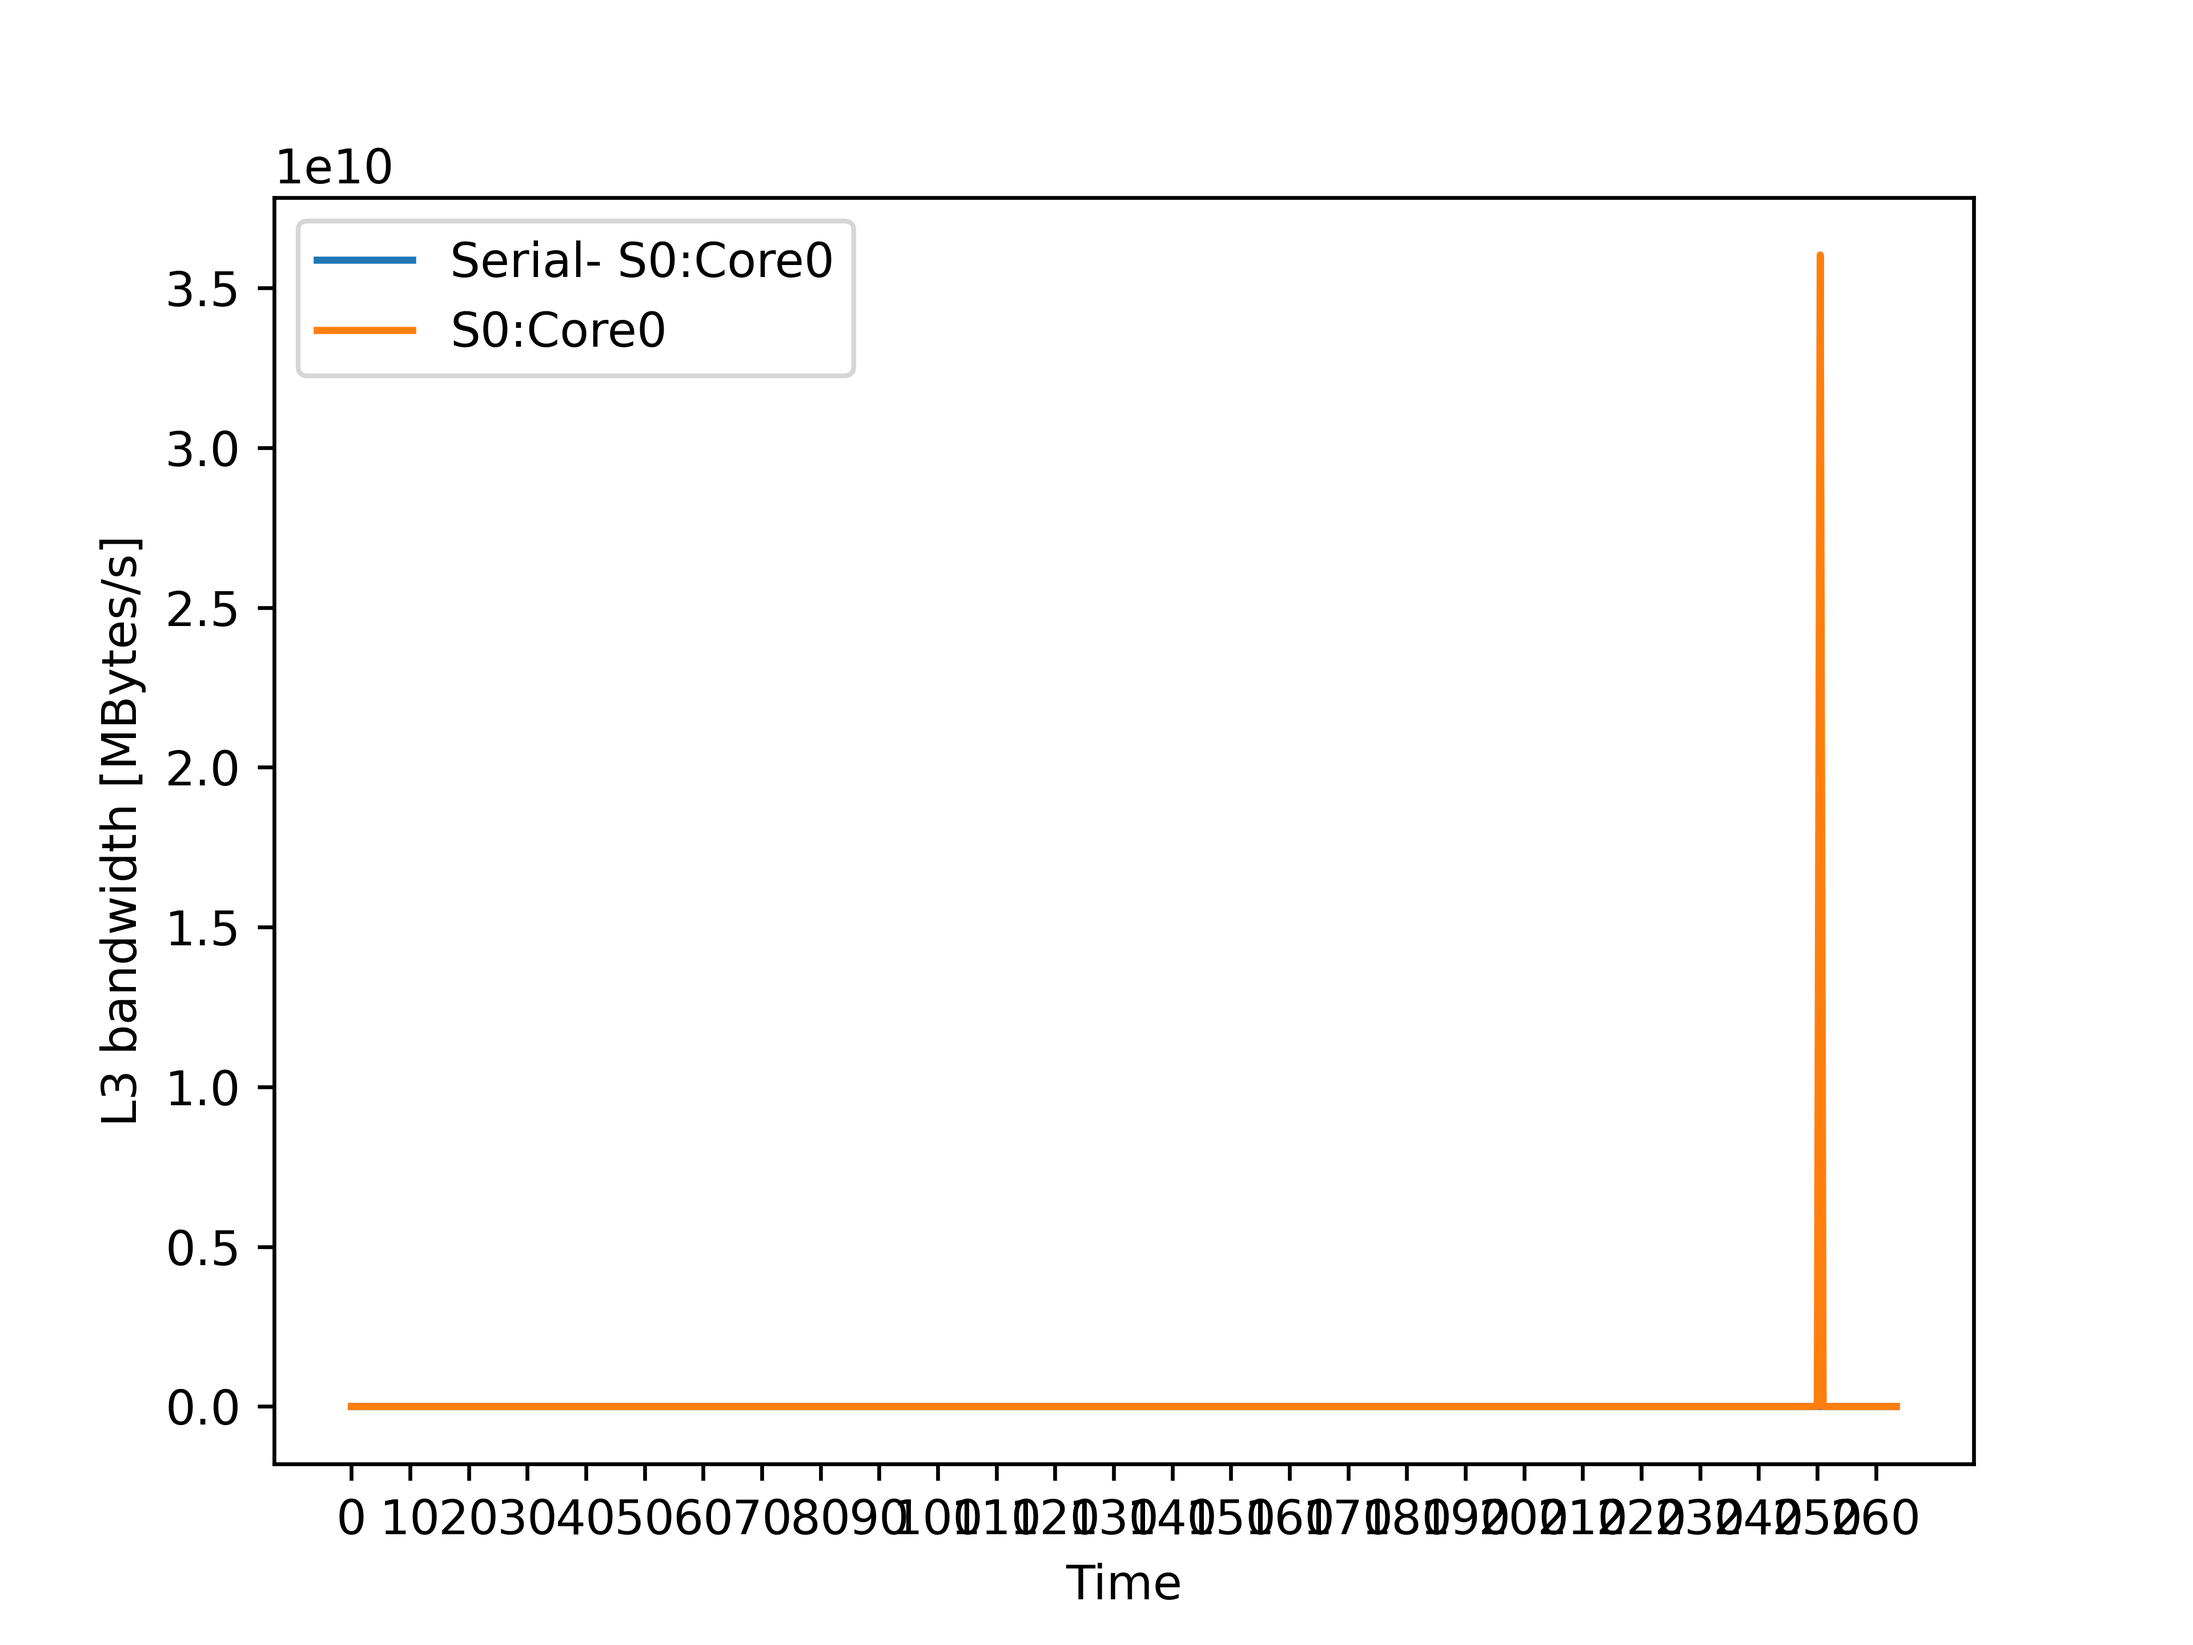
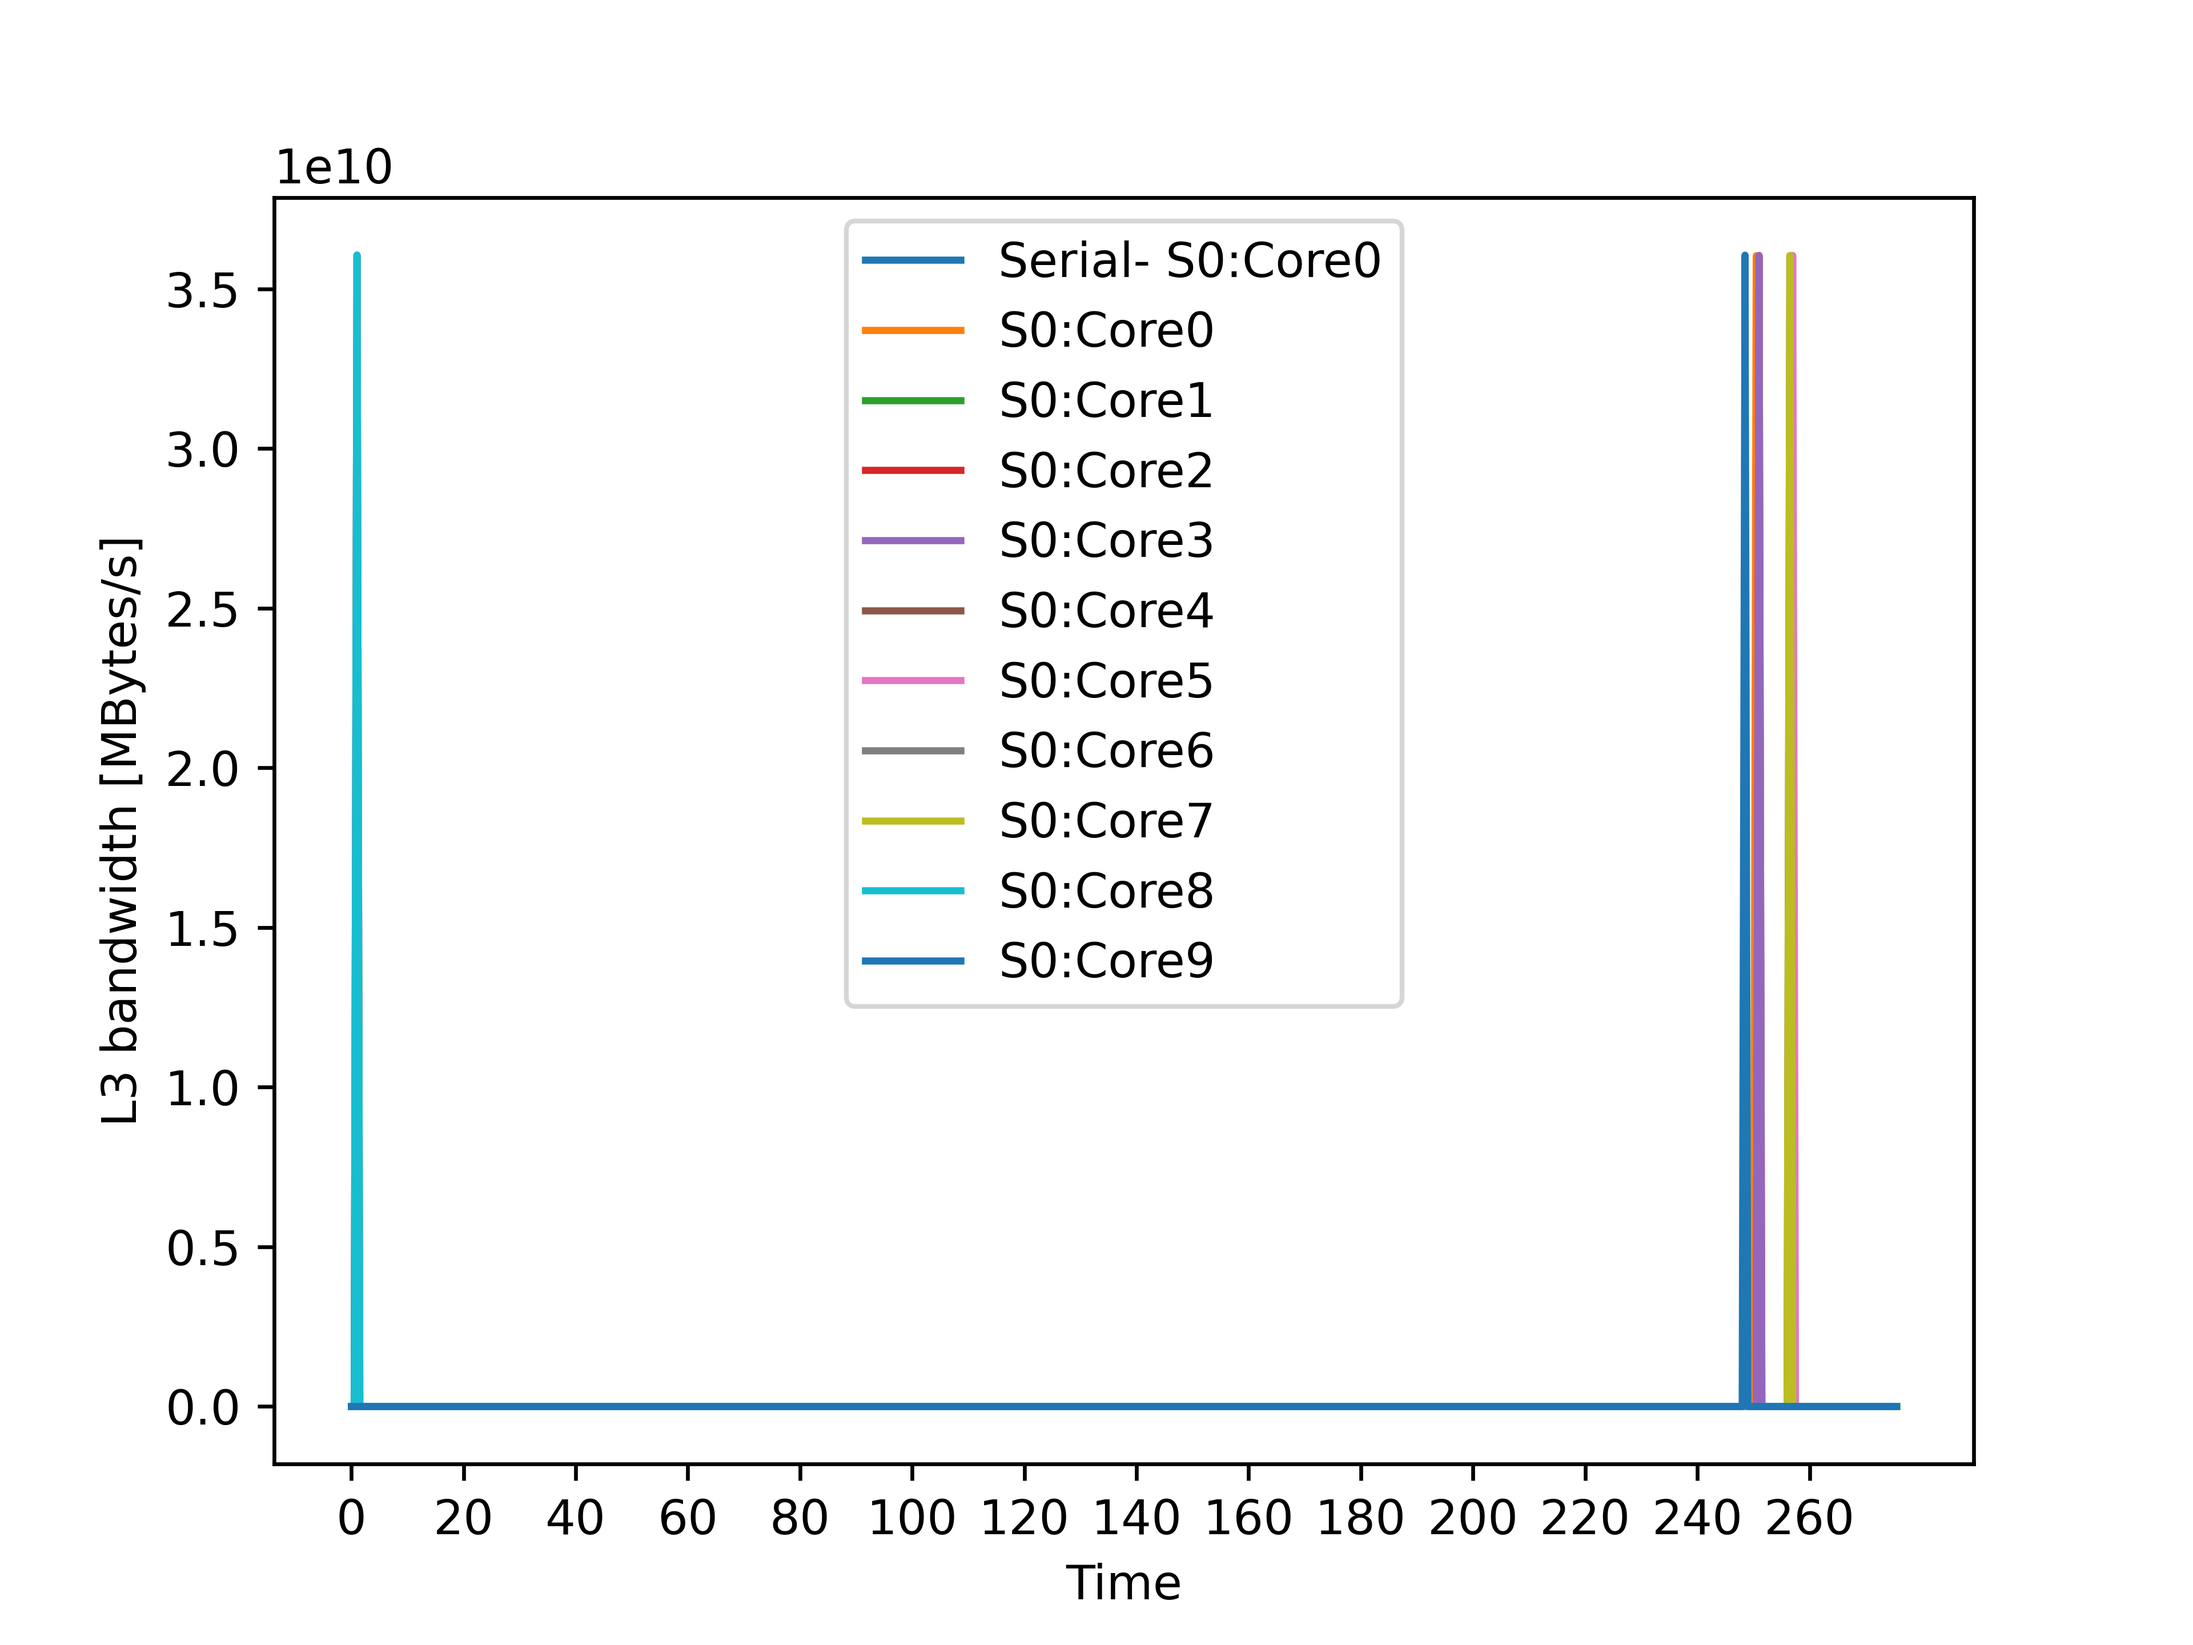
update plot

Changed region(s): [[0.125, 0.125, 0.875, 0.875], [0.1875, 0.9062, 0.875, 0.9375]]

diff --git a/test1_serial/dxt_src/plot_test.py b/test1_serial/dxt_src/plot_test.py
@@ -4,6 +4,8 @@ import sys
 
 from numpy.lib.function_base import append
 
+TEST="MEM"
+# TEST="L3"
 def RepresentsInt(s):
     try: 
         int(s)
@@ -19,19 +21,16 @@ def RepresentsFloat(s):
     except ValueError:
         return False
     
-out_path="res/membench-timeline.out"
-res_path="res/membench-timeline.err"
+out_path="res/"+TEST+"/membench-timeline.out"
+res_path="res/"+TEST+"/membench-timeline.err"
 
 f = open(out_path, "r")
 max_time=0
 for line in f:
-    arr=line.split(" ")
-    # print(arr)
+    arr=line.split(",")
     if("Size:" in arr[0]):
-        if(RepresentsFloat(arr[11].replace(',','')) == True):
-            max_time=float(arr[11].replace(',',''))
-        else:
-            max_time=float(arr[9].replace(',',''))
+        if(RepresentsFloat(arr[3].replace('sec=','')) == True):
+            max_time=float(arr[3].replace('sec=',''))
         break
 f.close()
 
@@ -39,27 +38,30 @@ print(max_time)
 
 
 f = open(res_path, "r")
-time_line=np.arange(0, int(max_time+1), 0.5)
+time_line=np.arange(0, int(max_time+2), 0.5)
 bandwith_list=[]
-
+id_mem_bandwidth=12
+id_l3_cache=8
 for line in f:
     arr=line.split(" ")
     if( RepresentsInt(arr[0])):
-        bandwith_list=  append(bandwith_list,float(arr[8]))
+        if(TEST=="MEM"):
+            bandwith_list=  append(bandwith_list,float(arr[id_mem_bandwidth]))
+        elif (TEST=="L3"):
+            bandwith_list=  append(bandwith_list,float(arr[id_l3_cache]))
         
 f.close()
 
 
-print(time_line)
-print(bandwith_list)
-
+# print(time_line)
+bandwith_list = np.append(bandwith_list,np.zeros(len(time_line)-len(bandwith_list)))
 print(len(time_line))
 print(len(bandwith_list))
-plt.ylabel("L3 load bandwidth [MBytes/s]")
+plt.ylabel(TEST+" bandwidth [MBytes/s]")
 plt.xlabel("Time")
 # plt.yscale('log')
 plt.plot(time_line, bandwith_list, label="membench")
 
 plt.legend()
-plt.savefig('plot/plot_bandwith.png')
+plt.savefig('plot/plot_bandwith_'+TEST+'.png',dpi=600)
 plt.show()

diff --git a/test2_parallel/dxt_src/plot_test.py b/test2_parallel/dxt_src/plot_test.py
@@ -111,7 +111,7 @@ for i in range(0,len(expand_parallel)):
     print(len(expand_parallel[i]))
     plt.plot(max_timeline, expand_parallel[i], label="S0:Core"+str(i))
 # plt.plot(time_line_parallel2, expand_parallel2, label="membench-10-run-paralle")
-plt.xticks(np.arange(min(max_timeline), max(max_timeline)+1, 10))
+plt.xticks(np.arange(min(max_timeline), max(max_timeline)+1, 20))
 plt.legend()
 plt.savefig('plot/plot_bandwith_'+TEST+'.png',dpi=600)
 plt.show()

diff --git a/test1_parallel/dxt_src/plot_test.py b/test1_parallel/dxt_src/plot_test.py
@@ -77,7 +77,7 @@ expand_parallel1=np.append(bandwith_list_parallel1,np.zeros(len(time_line_parall
 # print(len(expand_serial))
 # print(len(expand_parallel))
 # print(len(time_line_parallel))
-plt.ylabel(TEST+" bandwidth [MBytes/s]")
+plt.ylabel(TEST+" access bandwidth [MBytes/s]")
 plt.xlabel("Time")
 # plt.yscale('log')
 plt.plot(time_line_parallel1, expand_serial, label="membench-serial S0:0")
